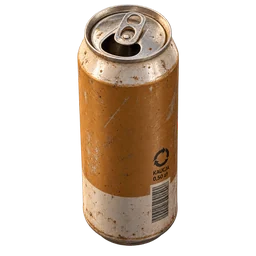
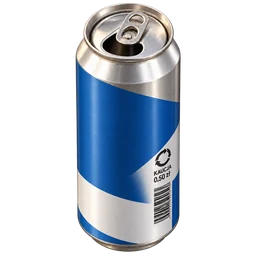
Use a clean realistic can and make damaged cans rare (v195)

diff --git a/src/App.tsx b/src/App.tsx
@@ -24,7 +24,7 @@ import TrashSearchTime, { trashSearchMinutes } from './TrashSearchTime'
 import { useGameAutosave } from './useGameAutosave'
 import { SAVE_KEY, DISCOVERY_KEY, readSavedGame, loadDiscoveredLocations } from './saveCompatibility'
 
-const BUILD_VERSION = 'v2026.10.16-194'
+const BUILD_VERSION = 'v2026.10.16-195'
 // Temporary fourth Street action for bottle-search testing; turn off after review.
 const TEMP_BOTTLE_TEST = true
 const ACTIVITY_TICK_MS = 250
@@ -1025,7 +1025,7 @@ export default function App() {
 
   function searchStreetBottles() {
     if (activeEvent || current.id !== 'street' || trashGame) return
-    const clutter: TrashArt[] = ['paper', 'cup', 'tray', 'wrapper', 'can-crushed']
+    const clutter: TrashArt[] = ['paper', 'cup', 'tray', 'wrapper']
     const layers = 6
     const perLayer = 3
     const count = layers * perLayer
@@ -1046,8 +1046,8 @@ export default function App() {
         { x: 48, y: 68 },
       ][slot]
       const appearance = Math.random()
-      const returnable = bottle && Math.random() < .65
       const can = bottle && appearance < .35
+      const returnable = bottle && Math.random() < (can ? .78 : .65)
       const art: TrashArt = bottle ? can ? returnable ? 'can' : 'can-crushed' : returnable ? 'plastic' : 'plastic-crushed' : clutter[Math.floor(appearance * clutter.length)]
       return {
         id,

diff --git a/GAME_DESIGN.md b/GAME_DESIGN.md
@@ -2,7 +2,13 @@
 
 This document describes the current implementation and separately marked agreed narrative/design decisions. It is a living reference for gameplay rules and should be updated when mechanics change.
 
-**Last documentation sync:** 2026-10-16 · Neutral office-worker protagonist. Latest application build: `v2026.10.16-194`. Current clinic, mood, condition, inventory, journal and Status rules are recorded below; older versioned sections describe their historical behavior. Current hosting status is recorded under Repository access and hosting. Startup/navigation measurements and extended-session QA are summarized below; journal batching is implemented in v156.
+**Last documentation sync:** 2026-10-16 · Neutral office-worker protagonist. Latest application build: `v2026.10.16-195`. Current clinic, mood, condition, inventory, journal and Status rules are recorded below; older versioned sections describe their historical behavior. Current hosting status is recorded under Repository access and hosting. Startup/navigation measurements and extended-session QA are summarized below; journal batching is implemented in v156.
+
+### Matching can artwork and rarer damaged cans (v195)
+
+The intact can now uses realistic silver aluminum and a clean blue-white beverage print, retaining an undented cylindrical silhouette and deposit marking. It looks recently emptied, with no dirt, corrosion, peeling print or artificial aging. Generated with built-in imagegen using both former can sprites as target/style references, followed by a targeted edit removing all aging: realistic brushed aluminum and continuous blue-white print, open pull-tab top, intact shape, natural light, transparent background. Exported to the existing 256px WebP asset, used by both the bin and inventory.
+
+Damaged cans are no longer generated as ordinary clutter. Those positions now contain paper, cups, trays or wrappers. Among candidate cans, 78% are returnable and 22% damaged: approximately one damaged can per 3.5 intact cans over many searches, with natural variation in each small pile. PET eligibility stays at 65%; candidate count, search costs, inventory capacity and deposit payout are unchanged.
 
 ### Centered Street choice content (v194)
 
